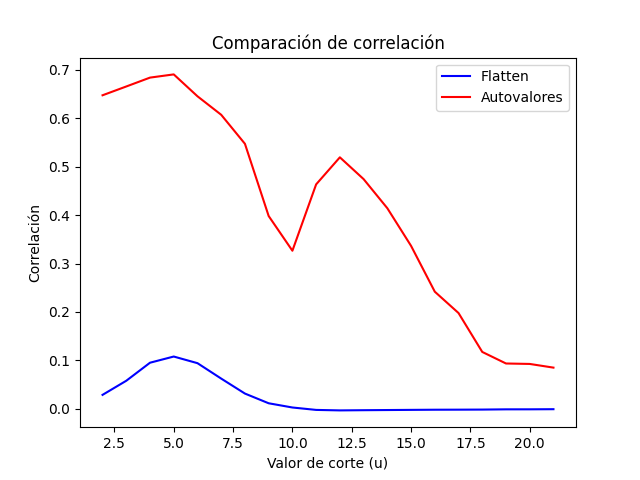
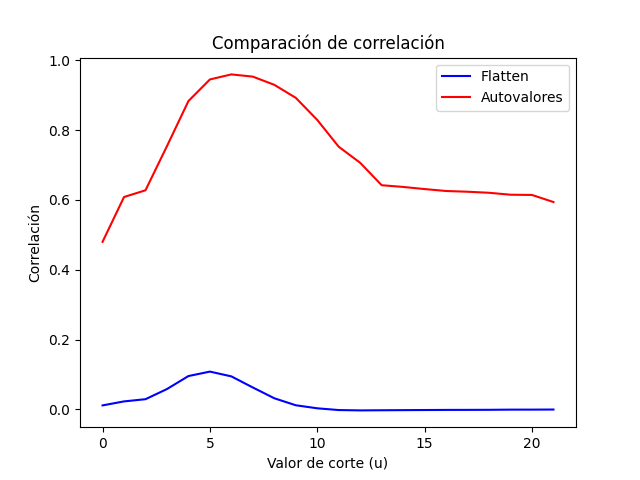
3.3 finished

diff --git a/src/main/python/exercise3.py b/src/main/python/exercise3.py
@@ -9,14 +9,15 @@ from scipy import stats
 import cheater as ch
 
 def adjacencyByU(similarity, u):
+    n = len(similarity)
     result = []
-    for row in similarity:
+    for i in range(0, n):
         rowResult = []
-        for item in row:
-            if item > u:
-                rowResult.append(1)
-            else:
+        for j in range(0, n):
+            if similarity[i][j] <= u:
                 rowResult.append(0)
+            else:
+                rowResult.append(1)
         result.append(rowResult)
     return result
 
@@ -32,11 +33,12 @@ def flattenCompare(adjacencyMatrix, transformedFacebookEdgesFile):
     return correlation(flatAdj, flatFb)
 
 def eigenValueCompare(adjacencyMatrix, u, fbEdgesEigenValues):
-    adjFile = writeAdjacencyToFile(adjacencyMatrix, u)
+    # adjFile = writeAdjacencyToFile(adjacencyMatrix, u)
     # exec.runTpFor(adjFile)
-    ch.simulateCppFor(adjFile)
-    adjEigenValues = tpio.readEigenValues("/results/" + adjFile + "_eigenValues.csv")
-    return correlation(adjEigenValues, fbEdgesEigenValues)
+    # ch.simulateCppFor(adjFile)
+    adjEigenValues = ch.superSimulateCppFor(adjacencyMatrix)
+    # adjEigenValues = tpio.readEigenValues("/results/" + adjFile + "_eigenValues.csv")
+    return correlation(np.real(adjEigenValues), np.real(fbEdgesEigenValues))
 
 # def chooseOptimumUValue():
 
@@ -53,21 +55,45 @@ def correlation(v1, v2):
 def run():
     print("Building similarity matrix")
     similarity = mBuilder.buildSimilarityMatrix()
+    np.set_printoptions(suppress=True)
+    np.savetxt('./examples/fb_similarity_v2.txt', similarity, fmt='%i')
     print("Building adjacency matrix from edges")
     fbAdj = mBuilder.transformFacebookEdgesToAdjacencyMatrix()
     print("Calculating adjacency matrix from edges eigenvalues")
-    fbEigenValues = calculateFbEigenValues()
+    plot.similarityPlot(fbAdj, "Matrix de adyacencia Facebook Edges")
+    fbEigenValues = ch.superSimulateCppFor(fbAdj)
 
     flattenCorrelations = []
     eigenValueCorrelations = []
+    maxFlattenCorrelation = -1
+    maxFlattenCorrelationVal = -1
+    maxEVCorrelation = -1
+    maxEVCorrelationVal = -1
     for u in cfg.uValues:
         print("Calculating adjacency matrix from similarity for u: " + str(u))
         adj = adjacencyByU(similarity, u)
         print("Flatten compare")
-        flattenCorrelations.append(flattenCompare(adj, fbAdj))
+        flatCorrelation = flattenCompare(adj, fbAdj)
+        if flatCorrelation > maxFlattenCorrelationVal:
+            maxFlattenCorrelationVal = flatCorrelation
+            maxFlattenCorrelation = u
+        flattenCorrelations.append(flatCorrelation)
         print("Eigenvalue compare")
-        eigenValueCorrelations.append(eigenValueCompare(adj, u, fbEigenValues))
+        evCorrelation = eigenValueCompare(adj, u, fbEigenValues)
+        eigenValueCorrelations.append(evCorrelation)
+        if evCorrelation > maxEVCorrelationVal:
+            maxEVCorrelationVal = evCorrelation
+            maxEVCorrelation = u
+        if u == cfg.startUpUValue:
+            plot.similarityPlot(adj, "Matrix de adyacencia valor u inicial")
+            print("StartupCorrelation values. Eigen: " + str(evCorrelation) + ". Flatten: " + str(flatCorrelation))
+        if u == cfg.optimumUValue:
+            plot.similarityPlot(adj, "Matrix de adyacencia valor u óptimo")
 
+    print("Max Flatten Correlation. U: " + str(maxFlattenCorrelation) + ". Value: " + str(maxFlattenCorrelationVal))
+    print("Max EV Correlation. U: " + str(maxEVCorrelation) + ". Value: " + str(maxEVCorrelationVal))
+    print("Flatten correlations: " + str(flattenCorrelations))
+    print("Eigenvalues correlations: " + str(eigenValueCorrelations))
     plot.generateUCutsForFlatten(flattenCorrelations)
     plot.generateUCutsForEigenValues(eigenValueCorrelations)
     plot.compareUCuts(flattenCorrelations, eigenValueCorrelations)

diff --git a/src/main/python/plotter.py b/src/main/python/plotter.py
@@ -115,3 +115,10 @@ def compareUCuts(flatCorrelations, eigenValCorrelations):
     plt.plot(cfg.uValues, eigenValCorrelations, color="red", label="Autovalores")
     plt.legend()
     plt.show()
+
+def similarityPlot(matrix, plotTitle):
+    plt.title(plotTitle)
+    plt.xlabel("Número nodo")
+    plt.ylabel("Número nodo")
+    plt.imshow(matrix, interpolation="nearest")
+    plt.show()

diff --git a/src/main/python/cheater.py b/src/main/python/cheater.py
@@ -1,6 +1,10 @@
 import numpySolver as npt
 import numpy as np
 
+def superSimulateCppFor(matrix):
+    l, V = np.linalg.eigh(matrix)
+    return l
+
 def simulateCppFor(inputFile):
     l, V = npt.solve("./examples/" + inputFile + ".txt")
     writeEigenValues(inputFile, l)

diff --git a/src/main/python/config.py b/src/main/python/config.py
@@ -2,4 +2,6 @@ compareToleranceEpsilon=1e-3
 iterations=1e4
 powerMethodEpsilon=1e-7
 debug=False
-uValues=range(2,22)
+uValues=range(0,22)
+startUpUValue=10
+optimumUValue=5
